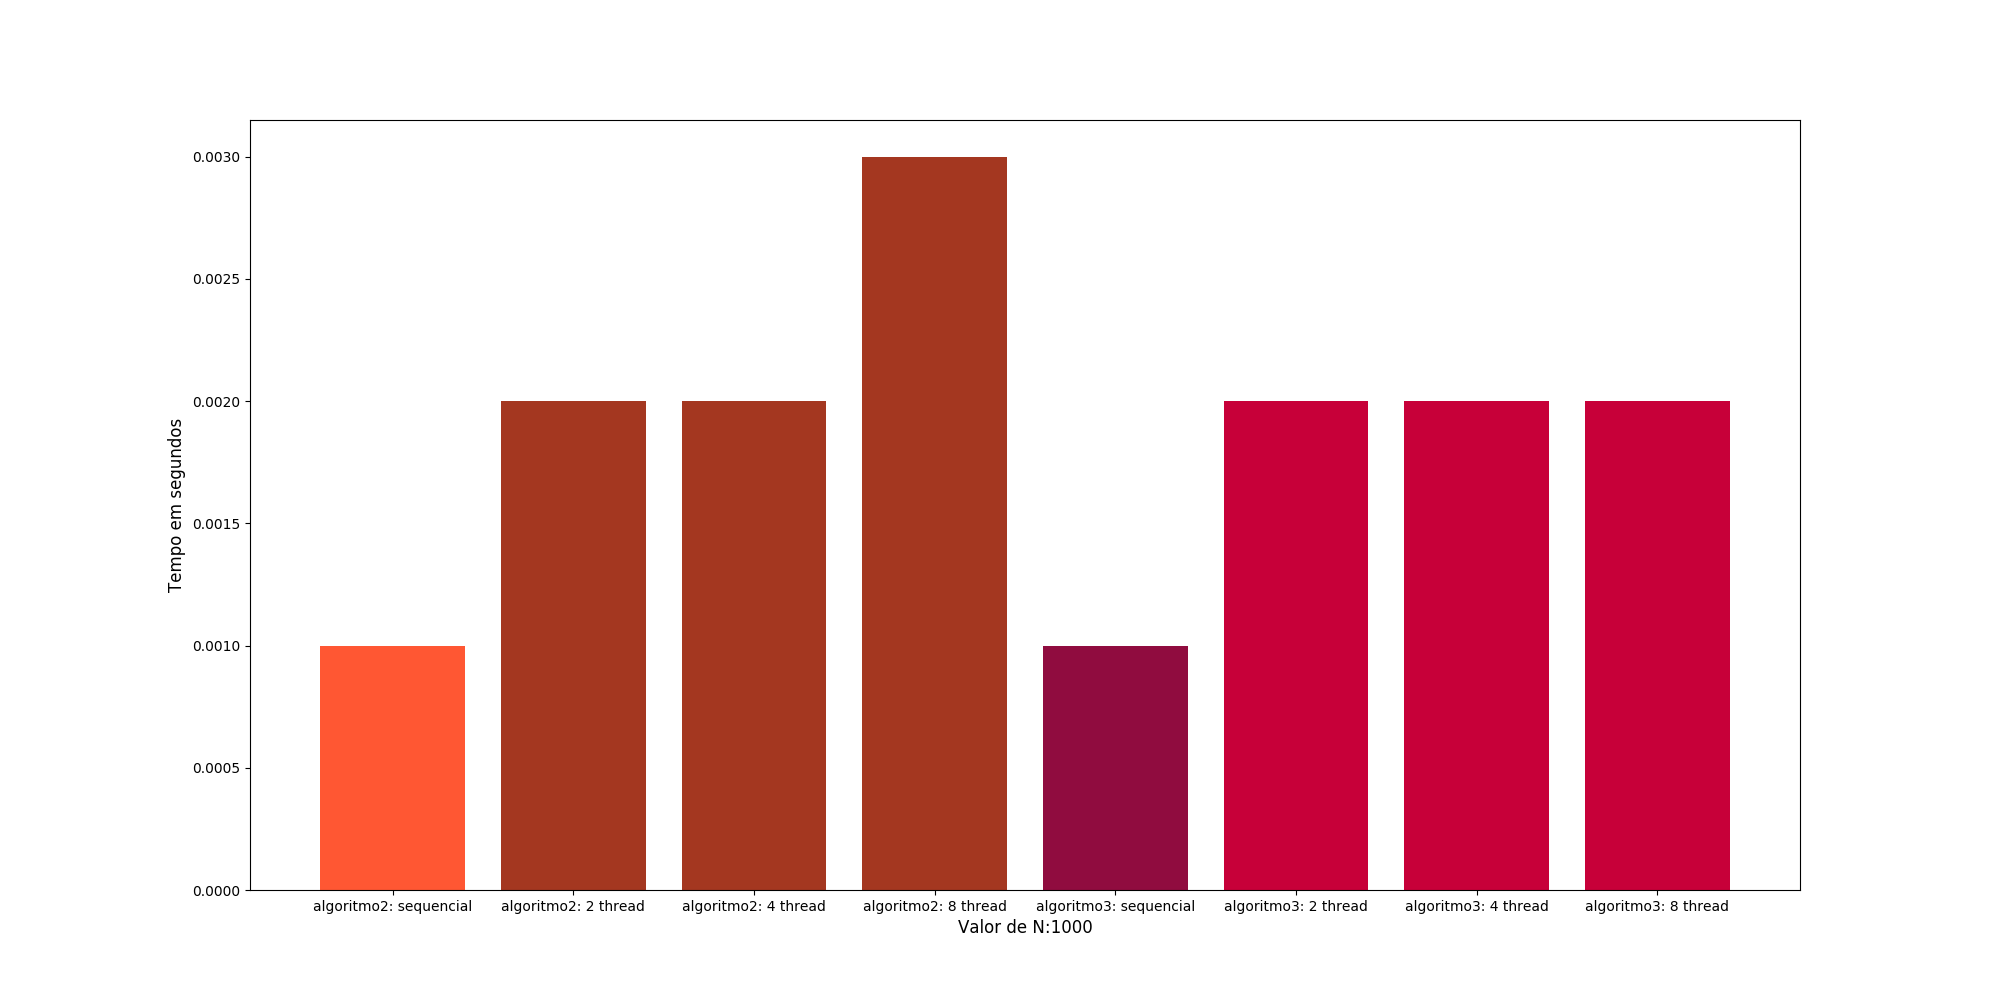
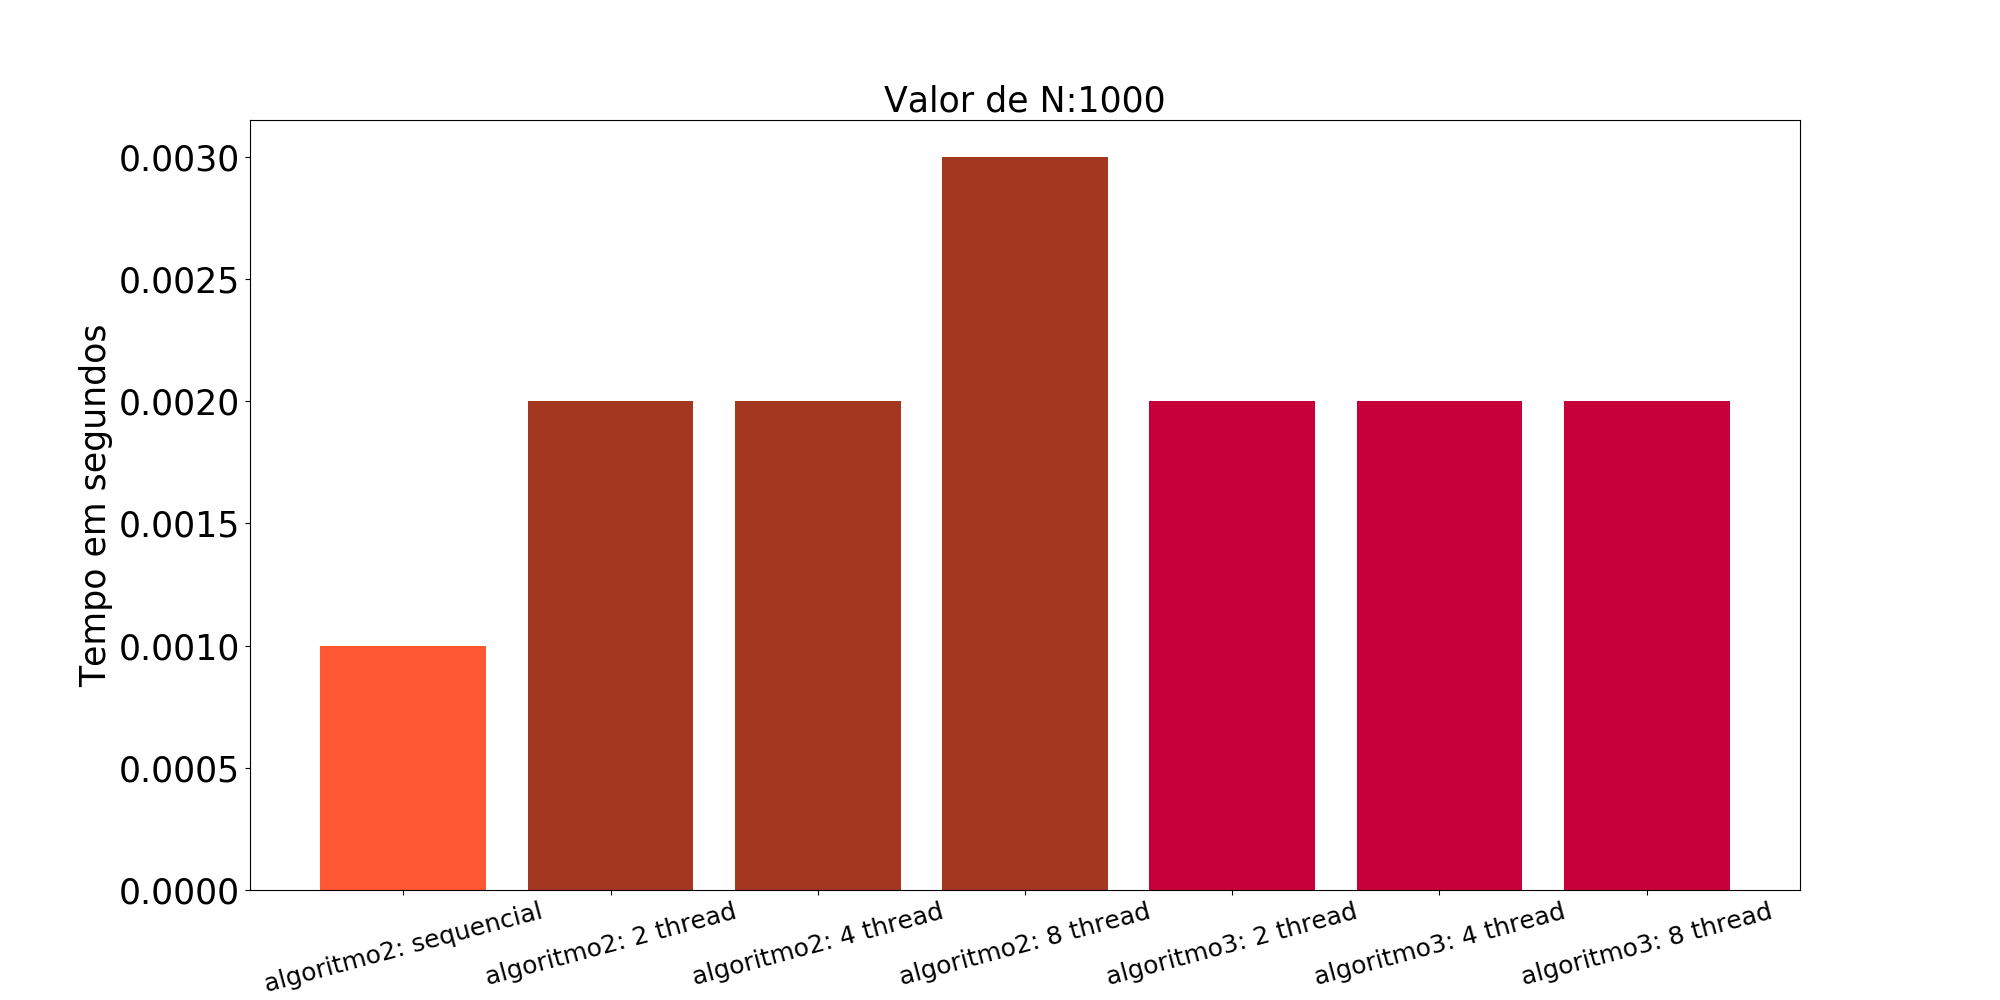
Modifica benchmark. Melhora plots

diff --git a/terceiro-trabalho/benchmark.py b/terceiro-trabalho/benchmark.py
@@ -20,7 +20,10 @@ for name, group in grouped:
     xlabel = "Valor de N:" + group['n'].map(str).iloc[0]
 
     #formata o plot
-    plt.ylabel("Tempo em segundos", fontsize=12)
-    plt.xlabel(xlabel, fontsize=12)
-    plt.bar(group['nome'], group['tempo'], color=("#ff5733", "#a43720", "#a43720", "#a43720", "#900C3F", "#C70039", "#C70039", "#C70039"))
+    plt.xticks(fontsize=18, rotation=15)
+    plt.yticks(fontsize=25)
+    plt.ylabel("Tempo em segundos", fontsize=25)
+    plt.title(xlabel, fontsize=25)
+    plt.xlabel(xlabel, fontsize=25)
+    plt.bar(group['nome'], group['tempo'], color=("#ff5733", "#a43720", "#a43720", "#a43720", "#C70039", "#C70039", "#C70039"), capsize=25)
     plt.savefig(xlabel)
